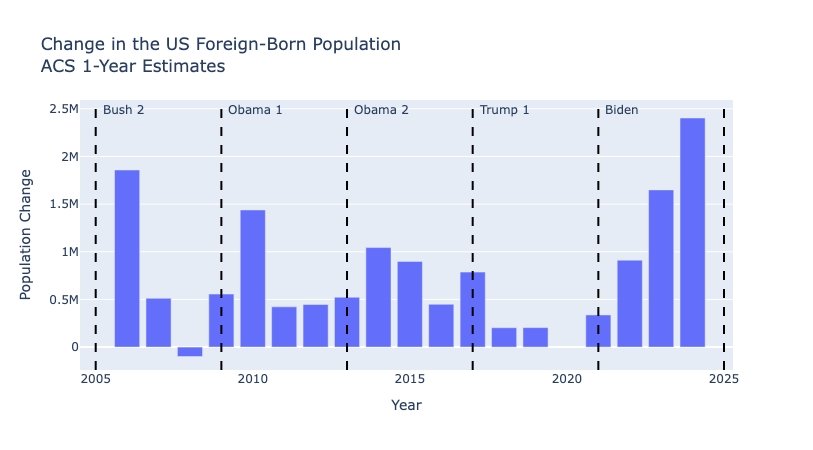
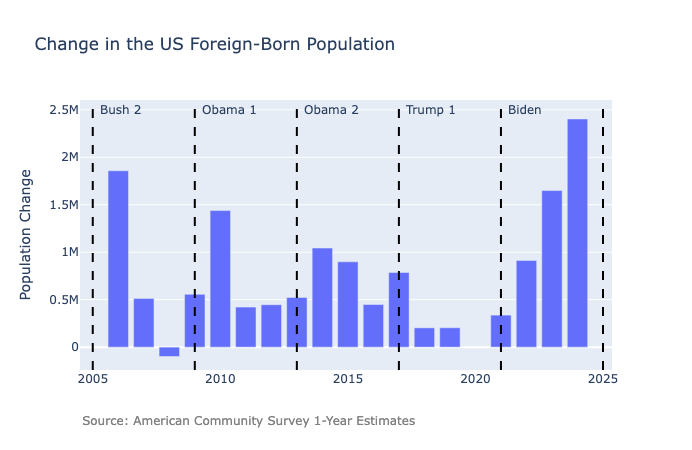
-Add footer to graphs saying data source. -Remove x-axis labels ("Year") because they look bad with new footer and are not necessary -Change default y-axis labels -Update readme with new code and graphs

diff --git a/src/acs_nativity/plotting.py b/src/acs_nativity/plotting.py
@@ -33,10 +33,26 @@ def _add_annotations(fig, df):
         )
 
 
-def plot_nativity_timeseries(df, column, title="", y_label=None, add_annotations=True):
-    labels = {}
-    if y_label is not None:
-        labels[column] = y_label
+def _add_source_footer(
+    fig, source_text="Source: American Community Survey 1-Year Estimates"
+):
+    fig.add_annotation(
+        text=source_text,
+        x=0,
+        y=-0.15,
+        xref="paper",
+        yref="paper",
+        showarrow=False,
+        xanchor="left",
+        yanchor="top",
+        font=dict(size=12, color="gray"),
+    )
+
+
+def plot_nativity_timeseries(
+    df, column, title="", y_label="Population", add_annotations=True, add_source=True
+):
+    labels = {"Year": "", column: y_label}
 
     fig = px.line(
         df,
@@ -50,18 +66,24 @@ def plot_nativity_timeseries(df, column, title="", y_label=None, add_annotations
     if add_annotations:
         _add_annotations(fig, df)
 
+    if add_source:
+        _add_source_footer(fig)
+
     return fig
 
 
 def plot_nativity_change(
-    df, column, title="", y_label="Population Change", add_annotations=True
+    df,
+    column,
+    title="",
+    y_label="Population Change",
+    add_annotations=True,
+    add_source=True,
 ):
     df = df.copy()
     df[column] = df[column].diff()
 
-    labels = {}
-    if y_label is not None:
-        labels[column] = y_label
+    labels = {"Year": "", column: y_label}
 
     fig = px.bar(
         df,
@@ -73,5 +95,8 @@ def plot_nativity_change(
 
     if add_annotations:
         _add_annotations(fig, df)
+
+    if add_source:
+        _add_source_footer(fig)
 
     return fig

diff --git a/README.md b/README.md
@@ -34,8 +34,7 @@ df = get_nativity_timeseries(us="*")
 plot_nativity_timeseries(
     df,
     column="Foreign-born",
-    title="Foreign-Born Population in the United States<br>ACS 1-Year Estimates",
-    y_label="Population",
+    title="Foreign-Born Population in the United States",
 )
 ```
 
@@ -46,7 +45,7 @@ plot_nativity_timeseries(
 plot_nativity_change(
     df,
     column="Foreign-born",
-    title="Change in the US Foreign-Born Population<br>ACS 1-Year Estimates",
+    title="Change in the US Foreign-Born Population",
 )
 ```
 
@@ -54,4 +53,4 @@ plot_nativity_change(
 
 ## Learning More
 
-To learn more about how to use `acs-nativity`, including how to work with other geographies (such as individual states and counties), see [Getting Started Notebook](notebooks/getting_started.ipynb).
+To learn more about how to use `acs-nativity`, including how to work with other geographies (such as states, counties, and cities), see the [Getting Started Notebook](notebooks/getting_started.ipynb).
